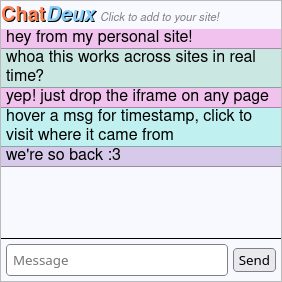
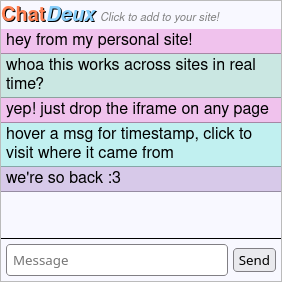
Balance vertical padding on chat messages and refresh preview image

diff --git a/frontend/style.css b/frontend/style.css
@@ -47,7 +47,7 @@ body {
 }
 
 .message {
-    padding-left: 5px;
+    padding: 3px 5px 2px 5px;
     border-bottom: 1px solid rgba(0, 0, 0, 0.3);
 }
 
